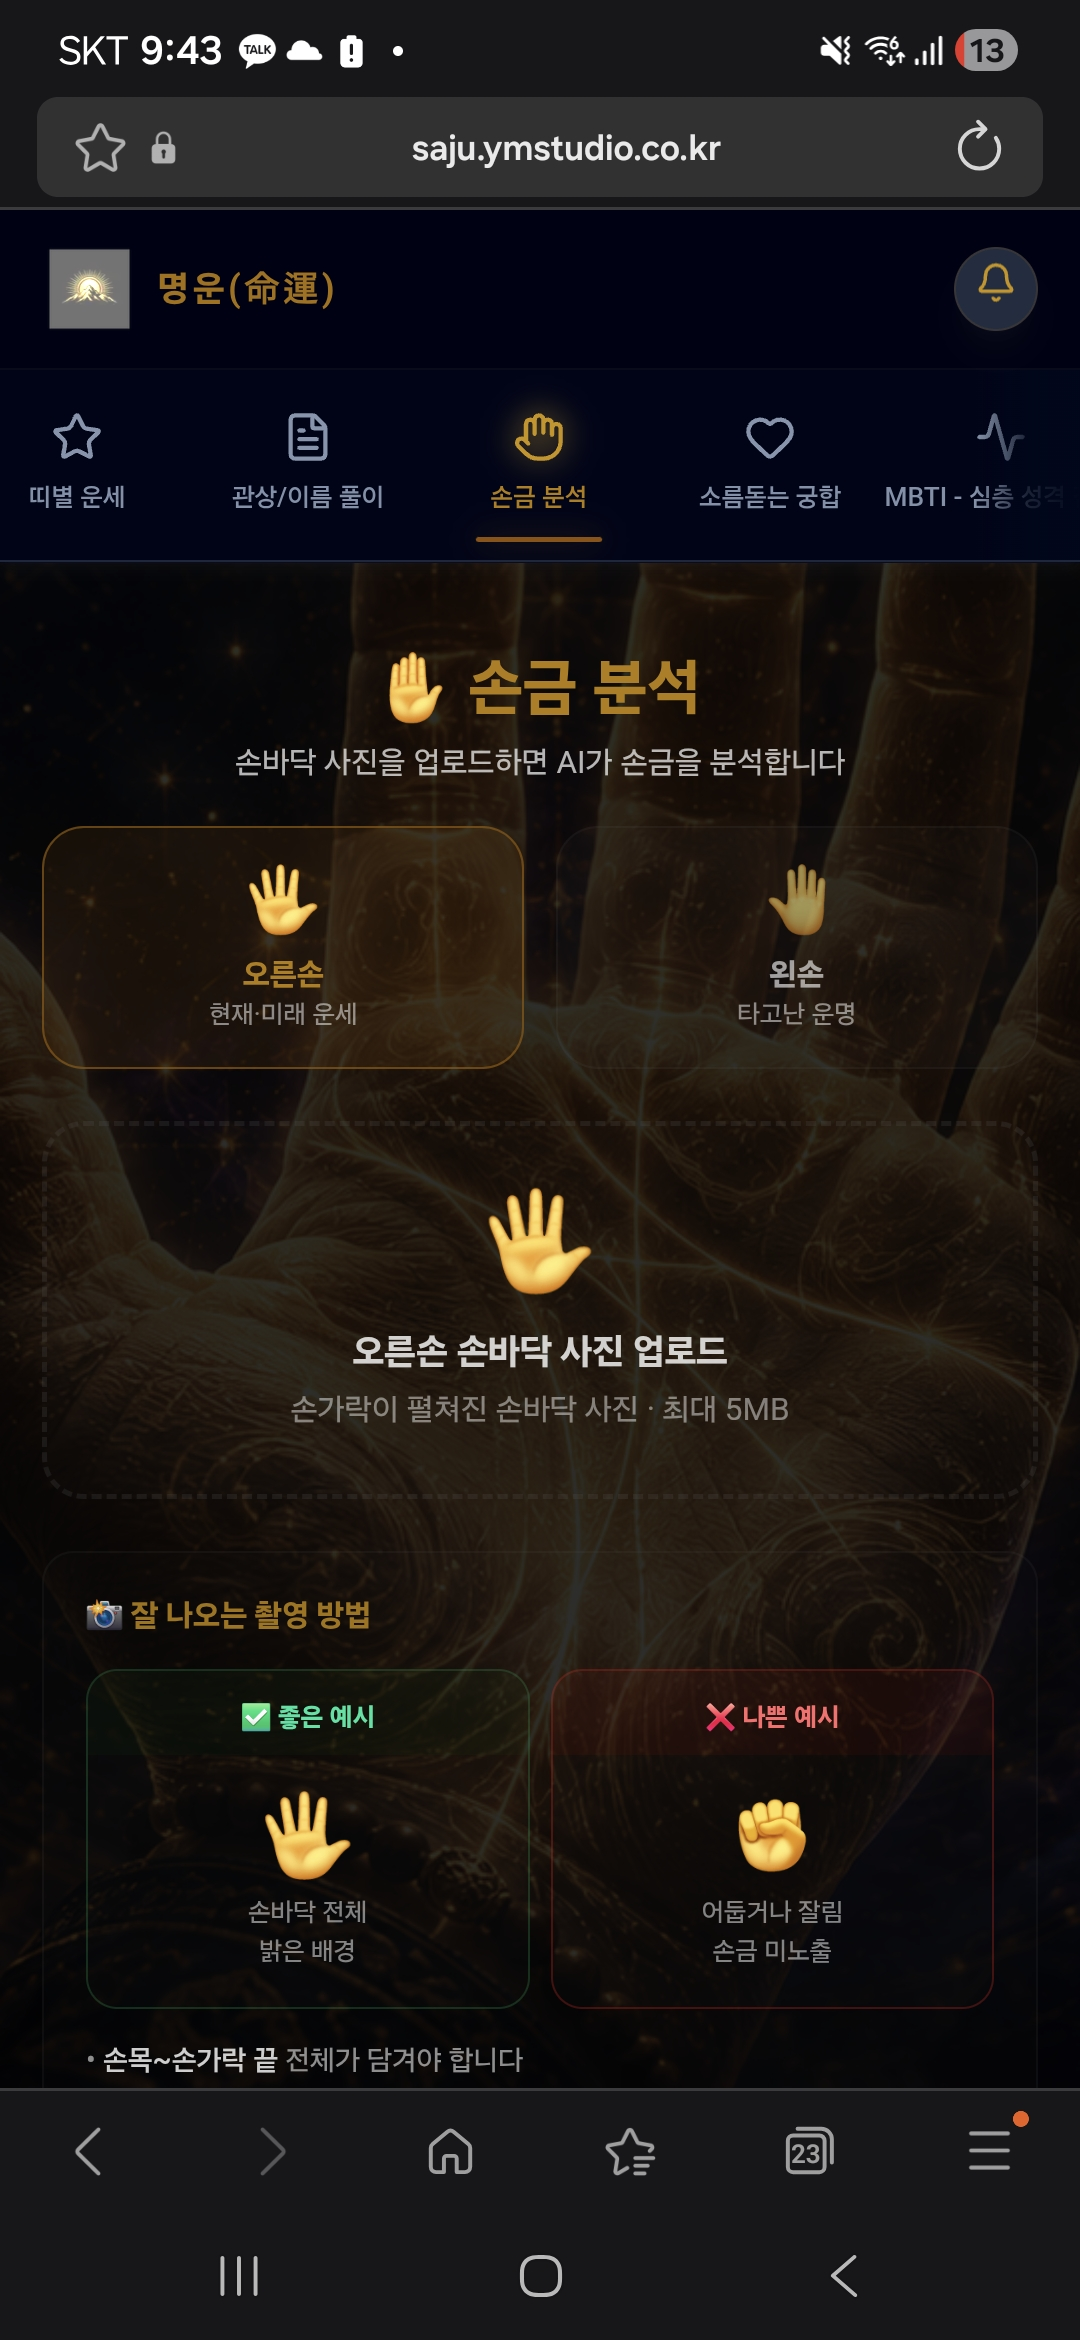
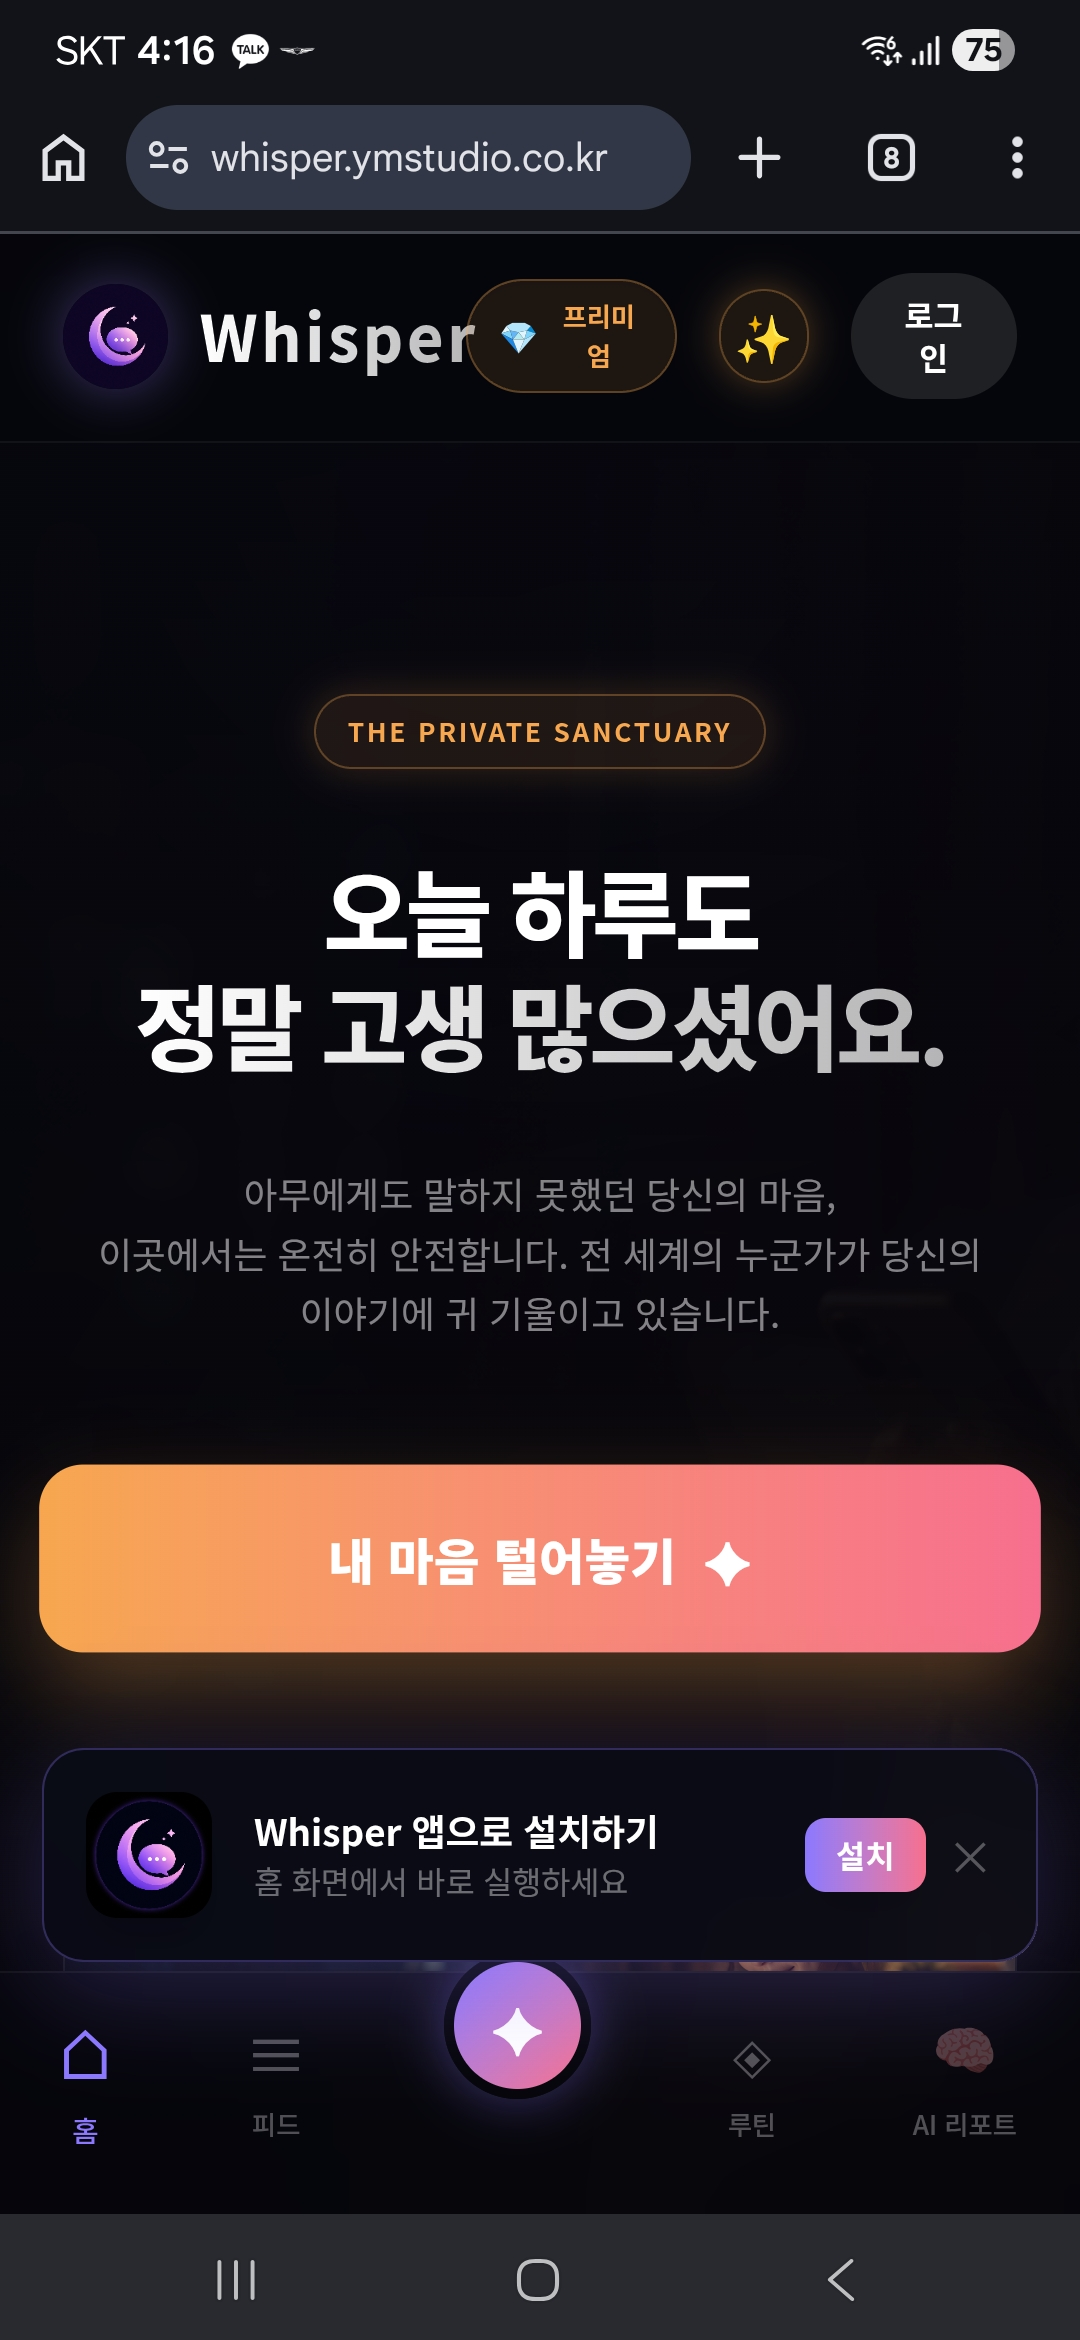
feat: 모바일 PWA 설치 배너 자동 표시

diff --git a/app/tools/page.tsx b/app/tools/page.tsx
@@ -6249,12 +6249,24 @@ export default function Home() {
     })();
   }, [pathname, router]);
 
-  // PWA 설치 배너
+  // PWA 설치 배너 - 모바일이면 무조건 표시 (한 번 닫으면 7일간 숨김)
   useEffect(() => {
+    const isMobileDevice = /Android|iPhone|iPad/i.test(navigator.userAgent);
+    const dismissed = localStorage.getItem("pwa-banner-dismissed");
+    const dismissedAt = dismissed ? parseInt(dismissed) : 0;
+    const sevenDays = 7 * 24 * 60 * 60 * 1000;
+    
+    // 이미 앱으로 실행 중이면 숨김
+    const isStandalone = window.matchMedia("(display-mode: standalone)").matches;
+    
+    if (isMobileDevice && !isStandalone && Date.now() - dismissedAt > sevenDays) {
+      setTimeout(() => setShowInstallBanner(true), 2000);
+    }
+
+    // beforeinstallprompt 이벤트도 잡아둠
     const handler = () => setShowInstallBanner(true);
-    window.addEventListener('pwa-installable', handler);
-    if ((window as any).__installPrompt) setShowInstallBanner(true);
-    return () => window.removeEventListener('pwa-installable', handler);
+    window.addEventListener("pwa-installable", handler);
+    return () => window.removeEventListener("pwa-installable", handler);
   }, []);
 
   // 🚀 [추가됨] 로그인 상태 확인 및 감지
@@ -6403,7 +6415,7 @@ export default function Home() {
             </div>
           </div>
           <div className="flex gap-2 shrink-0">
-            <button onClick={() => setShowInstallBanner(false)} className="text-xs text-white/40 px-2 py-1">닫기</button>
+          <button onClick={() => { localStorage.setItem("pwa-banner-dismissed", String(Date.now())); setShowInstallBanner(false); }} className="text-xs text-white/40 px-2 py-1">닫기</button>
             <button
               onClick={async () => {
                 const prompt = (window as any).__installPrompt;